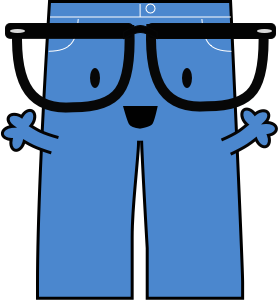
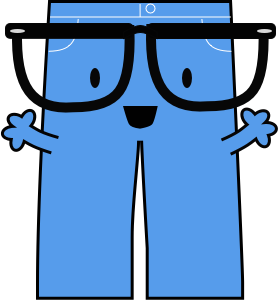
changed colour of asset

diff --git a/styles/styles.css b/styles/styles.css
@@ -159,7 +159,7 @@ html {
   font-size: 62.5%; }
 
 body {
-  background: #f3f9fc;
+  background: #e3f0f7;
   font-size: 20px;
   font-size: 2rem;
   font-family: "Open Sans", sans-serif;

diff --git a/styles/partials/_global.scss b/styles/partials/_global.scss
@@ -4,7 +4,7 @@ html {
 }
 
 body {
-   background: #f3f9fc;
+   background: #e3f0f7;
    @include base-font(20);
    font-family: $text-font;
    color: $text-color;
